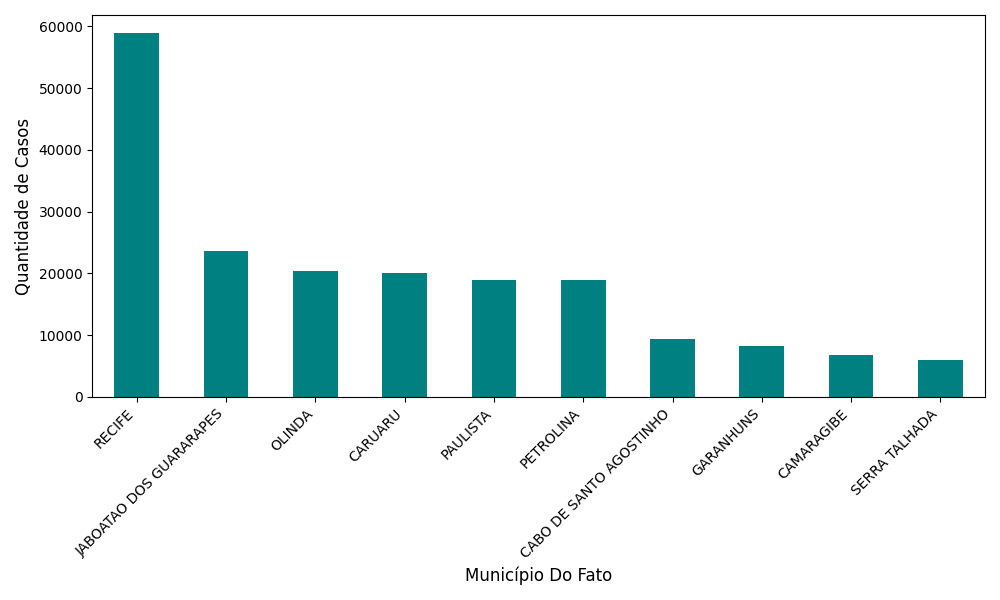
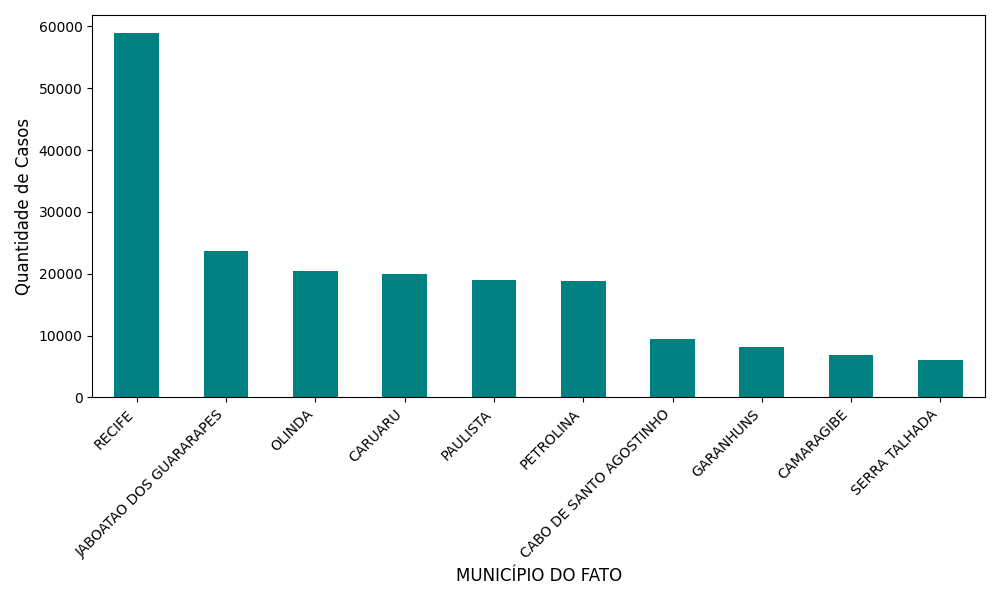
:bricks:Update de Graficos

diff --git a/app.py b/app.py
@@ -1,14 +1,16 @@
-# app.py
 from flask import Flask, render_template, request
 import pandas as pd
 import matplotlib.pyplot as plt
 import os
 import datetime
+import folium
+import json
 
 app = Flask(__name__)
-df = pd.read_excel("Microdados de Violencia Domestica.xlsx")
 
-# Limpeza padrao para evitar problemas de comparacao
+df = pd.read_excel("Microdados de Violencia Domestica.xlsx")
+df["MUNICÍPIO DO FATO"] = df["MUNICÍPIO DO FATO"].astype(str).str.strip().str.upper()
+
 for col in ['SEXO', 'REGIAO GEOGRÁFICA', 'MUNICÍPIO DO FATO', 'NATUREZA', 'IDADE SENASP']:
     df[col] = df[col].astype(str).str.strip()
 
@@ -37,20 +39,12 @@ def criar_grafico(coluna, nome_arquivo, tipo):
 
     if tipo == "bar":
         dados_contagem.plot(kind='bar', color='teal')
-        plt.xlabel(coluna, fontsize=12)
-        plt.ylabel("Quantidade de Casos", fontsize=12)
     elif tipo == "pie":
         dados_contagem.plot(kind='pie', autopct='%1.1f%%', startangle=140, textprops={'fontsize': 10})
-        plt.xlabel("")
-        plt.ylabel("")
     elif tipo == "line":
         dados_contagem.sort_index().plot(kind='line', marker='o', color='green')
-        plt.xlabel(coluna, fontsize=12)
-        plt.ylabel("Quantidade de Casos", fontsize=12)
     elif tipo == "barh":
         dados_contagem.plot(kind='barh', color='teal')
-        plt.xlabel("Quantidade de Casos", fontsize=12)
-        plt.ylabel(coluna, fontsize=12)
 
     plt.xticks(rotation=45, ha='right', fontsize=10)
     plt.tight_layout()
@@ -67,63 +61,6 @@ def criar_grafico(coluna, nome_arquivo, tipo):
 def dashboard():
     return render_template("index.html", categorias=colunas_disponiveis)
 
-@app.route("/data", methods=["GET", "POST"])
-def filtrar_data():
-    meses = [(1, 'Janeiro'), (2, 'Fevereiro'), (3, 'Março'), (4, 'Abril'),
-             (5, 'Maio'), (6, 'Junho'), (7, 'Julho'), (8, 'Agosto'),
-             (9, 'Setembro'), (10, 'Outubro'), (11, 'Novembro'), (12, 'Dezembro')]
-
-    anos_unicos = sorted(df['DATA DO FATO'].dropna().dt.year.unique())
-    sexos = sorted(df['SEXO'].dropna().unique())
-    regioes = sorted(df['REGIAO GEOGRÁFICA'].dropna().unique())
-    municipios = sorted(df['MUNICÍPIO DO FATO'].dropna().unique())
-    naturezas = sorted(df['NATUREZA'].dropna().unique())
-    idades = sorted(df['IDADE SENASP'].dropna().unique())
-
-    resultado = None
-    total_casos = 0
-
-    if request.method == "POST":
-        mes = request.form.get("mes")
-        ano = request.form.get("ano")
-        sexo = request.form.get("sexo")
-        regiao = request.form.get("regiao")
-        municipio = request.form.get("municipio")
-        natureza = request.form.get("natureza")
-        idade = request.form.get("idade")
-
-        if not all([mes, ano, sexo, regiao, municipio, natureza, idade]):
-            resultado = "⚠ Preencha todos os campos para realizar a busca."
-        else:
-            mes = int(mes)
-            ano = int(ano)
-
-            filtro = df[
-                (df['DATA DO FATO'].dt.month == mes) &
-                (df['DATA DO FATO'].dt.year == ano) &
-                (df['SEXO'] == sexo) &
-                (df['REGIAO GEOGRÁFICA'] == regiao) &
-                (df['MUNICÍPIO DO FATO'] == municipio) &
-                (df['NATUREZA'] == natureza) &
-                (df['IDADE SENASP'] == idade)
-            ]
-
-            total_casos = len(filtro)
-            resultado = f"{total_casos} caso(s) encontrado(s) com os filtros selecionados"
-
-    return render_template(
-        "data.html",
-        meses=meses,
-        anos=anos_unicos,
-        sexos=sexos,
-        regioes=regioes,
-        municipios=municipios,
-        naturezas=naturezas,
-        idades=idades,
-        resultado=resultado,
-        total_casos=total_casos
-    )
-
 @app.route("/grafico/<categoria>")
 def exibir_grafico(categoria):
     nome_coluna, tipo_grafico = colunas_disponiveis.get(categoria, ("MUNICÍPIO DO FATO", "bar"))
@@ -131,6 +68,40 @@ def exibir_grafico(categoria):
     dados = criar_grafico(nome_coluna, nome_arquivo, tipo_grafico)
     timestamp = datetime.datetime.now().timestamp()
     return render_template("grafico.html", dados=dados, categoria=categoria, nome_arquivo=nome_arquivo, timestamp=timestamp)
+
+@app.route("/mapa")
+def mapa():
+    with open("geojs-26-mun.json", "r", encoding="utf-8") as f:
+        geojson_data = json.load(f)
+
+    dados_municipio = df["MUNICÍPIO DO FATO"].value_counts().reset_index()
+    dados_municipio.columns = ["Municipio", "Casos"]
+    dados_municipio["Municipio"] = dados_municipio["Municipio"].str.upper()
+
+    mapa = folium.Map(location=[-8.0476, -34.8770], zoom_start=7)
+
+    folium.Choropleth(
+        geo_data=geojson_data,
+        name="choropleth",
+        data=dados_municipio,
+        columns=["Municipio", "Casos"],
+        key_on="feature.properties.name",
+        fill_color="YlOrRd",
+        fill_opacity=0.7,
+        line_opacity=0.2,
+        legend_name="Casos por Município"
+    ).add_to(mapa)
+
+    for feature in geojson_data["features"]:
+        nome = feature["properties"]["name"].upper()
+        casos = int(dados_municipio.set_index("Municipio").get("Casos", {}).get(nome, 0))
+        popup = folium.Popup(f"{nome.title()}: {casos} caso(s)", parse_html=True)
+        geo = folium.GeoJson(feature)
+        geo.add_child(popup)
+        geo.add_to(mapa)
+
+    mapa.save("static/mapa_pernambuco.html")
+    return render_template("mapa_pernambuco.html")
 
 if __name__ == "__main__":
     app.run(debug=True, threaded=True)
